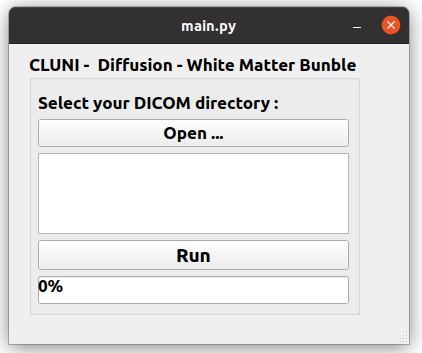
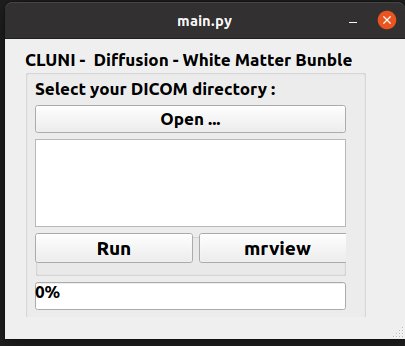
use zip folder

Changed region(s): [[0.0889, 0.2312, 0.8593, 0.896], [0.0, 0.0, 1.0, 1.0], [0.8296, 0.0578, 0.8593, 0.0867]]

diff --git a/mri_dwi_cluni/main.py b/mri_dwi_cluni/main.py
@@ -21,7 +21,7 @@ from PyQt5 import QtWidgets
 from PyQt5.QtCore import QDir
 from PyQt5.QtWidgets import QApplication, QFileDialog, QMainWindow, QMessageBox
 from PyQt5.uic import loadUi
-from useful import execute_command
+from useful import check_file_ext, execute_command
 
 
 class App(QMainWindow):
@@ -56,21 +56,27 @@ class App(QMainWindow):
 
     def browse_directory(self):
         """Browse DICOM directory"""
-        directory = QFileDialog.getExistingDirectory(
-            self, "Select a directory", QDir.homePath()
-        )
-        if directory:
-            self.dicom_directory = directory
-            self.textEdit_output_browser.setText(self.dicom_directory)
-            self.pushButton_run.setEnabled(True)
-            self.reset_progress_bar()
+        # directory = QFileDialog.getExistingDirectory(
+        #     self, "Select a directory", QDir.homePath()
+        # )
+        file_dialog = QFileDialog()
+        file_dialog.setFileMode(QFileDialog.ExistingFiles)
+        file_dialog.setViewMode(QFileDialog.List)
+        file_dialog.setDirectory(QDir.homePath())
+        file_dialog.setNameFilter("ZIP files (*.zip)")
+
+        if file_dialog.exec_():
+            if file_dialog.selectedFiles():
+                self.dicom_directory = file_dialog.selectedFiles()[0]
+                self.textEdit_output_browser.setText(self.dicom_directory)
+                self.pushButton_run.setEnabled(True)
+                self.reset_progress_bar()
 
     def launch_processing(self):
         """Launch processing"""
         if self.dicom_directory:
             self.reset_progress_bar()
             try:
-                dicom_directory = self.dicom_directory
                 # Configuration
                 config_file = os.path.join(
                     os.path.dirname(self.dir_code_path),
@@ -83,6 +89,31 @@ class App(QMainWindow):
                     out_directory = data["OutputDirectory"]
                     working_directory = data["WorkingDirectory"]
                 self.progressBar_run.setValue(5)
+
+                # Unzip dicom directory in temporary folder
+                valid_bool, in_ext, file_name = check_file_ext(
+                    self.dicom_directory, {"ZIP": "zip"}
+                )
+                if not valid_bool:
+                    msg = "DICOM directory is not a zip folder"
+                    self.error(msg)
+                    raise Exception(msg)
+
+                working_directory_tmp = os.path.join(working_directory, "tmp")
+                if not os.path.exists(working_directory_tmp):
+                    os.makedirs(working_directory_tmp)
+                cmd = [
+                    "unzip",
+                    self.dicom_directory,
+                    "-d",
+                    working_directory_tmp,
+                ]
+                dicom_directory = os.path.join(
+                    working_directory_tmp, file_name
+                )
+                result, stderrl, sdtoutl = execute_command(cmd)
+                while not os.path.exists(dicom_directory):
+                    time.sleep(2)
 
                 # BIDS conversion
                 print("\n----------CONVERSION----------")
@@ -109,9 +140,16 @@ class App(QMainWindow):
                     os.chdir(sourcedata_directory)
                     cmd = ["tar", "czvf", "DICOM.tar.gz", "DICOM"]
                     result, stderrl, sdtoutl = execute_command(cmd)
+                    while not os.path.exists(
+                        os.path.join(sourcedata_directory, "DICOM.tar.gz")
+                    ):
+                        time.sleep(2)
 
                     cmd = ["rm", "-rf", "DICOM"]
                     result, stderrl, sdtoutl = execute_command(cmd)
+
+                # Remove tpm folder
+                shutil.rmtree(working_directory_tmp)
 
                 self.progressBar_run.setValue(15)
 
@@ -136,6 +174,7 @@ class App(QMainWindow):
                         response = self.show_confirmation_box(msg)
                         if response == QMessageBox.Cancel:
                             print("Processing cancelled")
+                            self.reset_progress_bar()
                             return
                         else:
                             # Remove old data
@@ -159,9 +198,9 @@ class App(QMainWindow):
                     now.strftime("%Y%m%d") + "_processing.log",
                 )
                 mylog = logging.getLogger("custom_logger")
-                mylog.setLevel(logging.DEBUG)
+                mylog.setLevel(logging.INFO)
                 handler = logging.FileHandler(log_file)
-                handler.setLevel(logging.DEBUG)
+                handler.setLevel(logging.INFO)
                 handler.setFormatter(
                     logging.Formatter(
                         "%(asctime)s:%(levelname)s:%(message)s",
@@ -203,8 +242,8 @@ class App(QMainWindow):
                     "Processing finished at %s",
                     now.strftime("%d/%m/%Y %H:%M:%S"),
                 )
-                total_time = start - end
-                mylog.info("Processing done in %f seconds", total_time)
+                total_time = (end - start) / 60
+                mylog.info("Processing done in %f minutes", total_time)
 
                 # Launch mrview
                 image = glob.glob(
